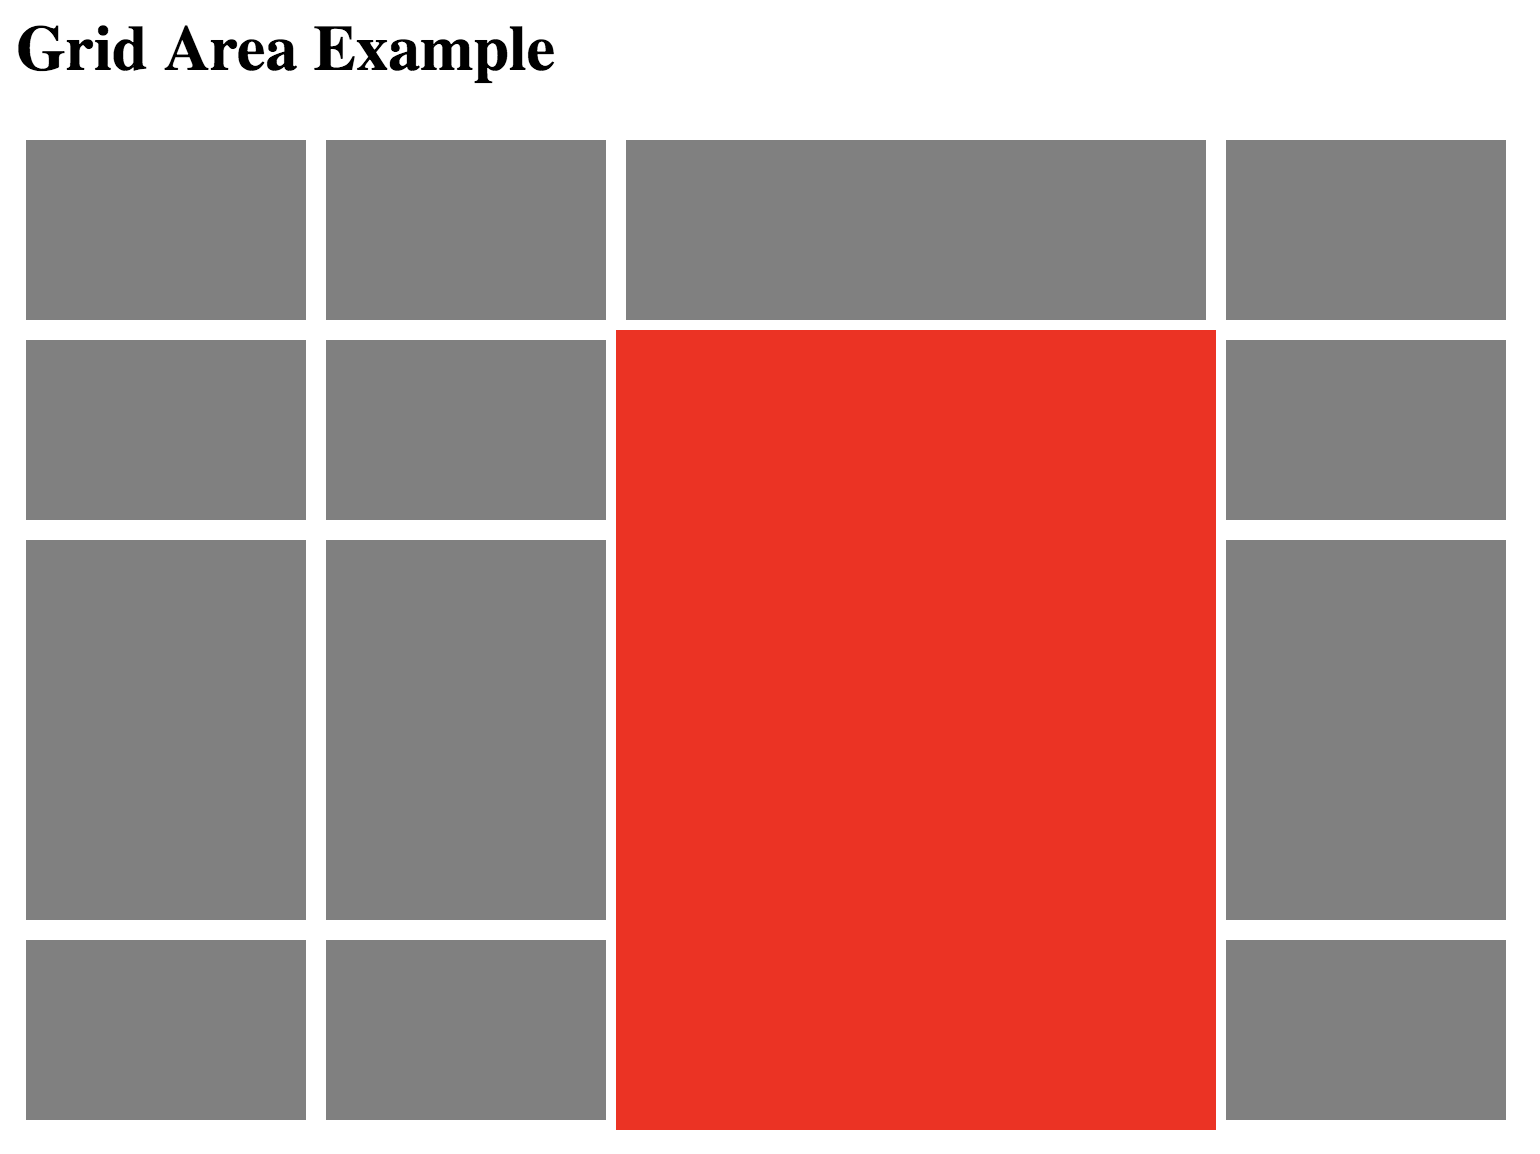
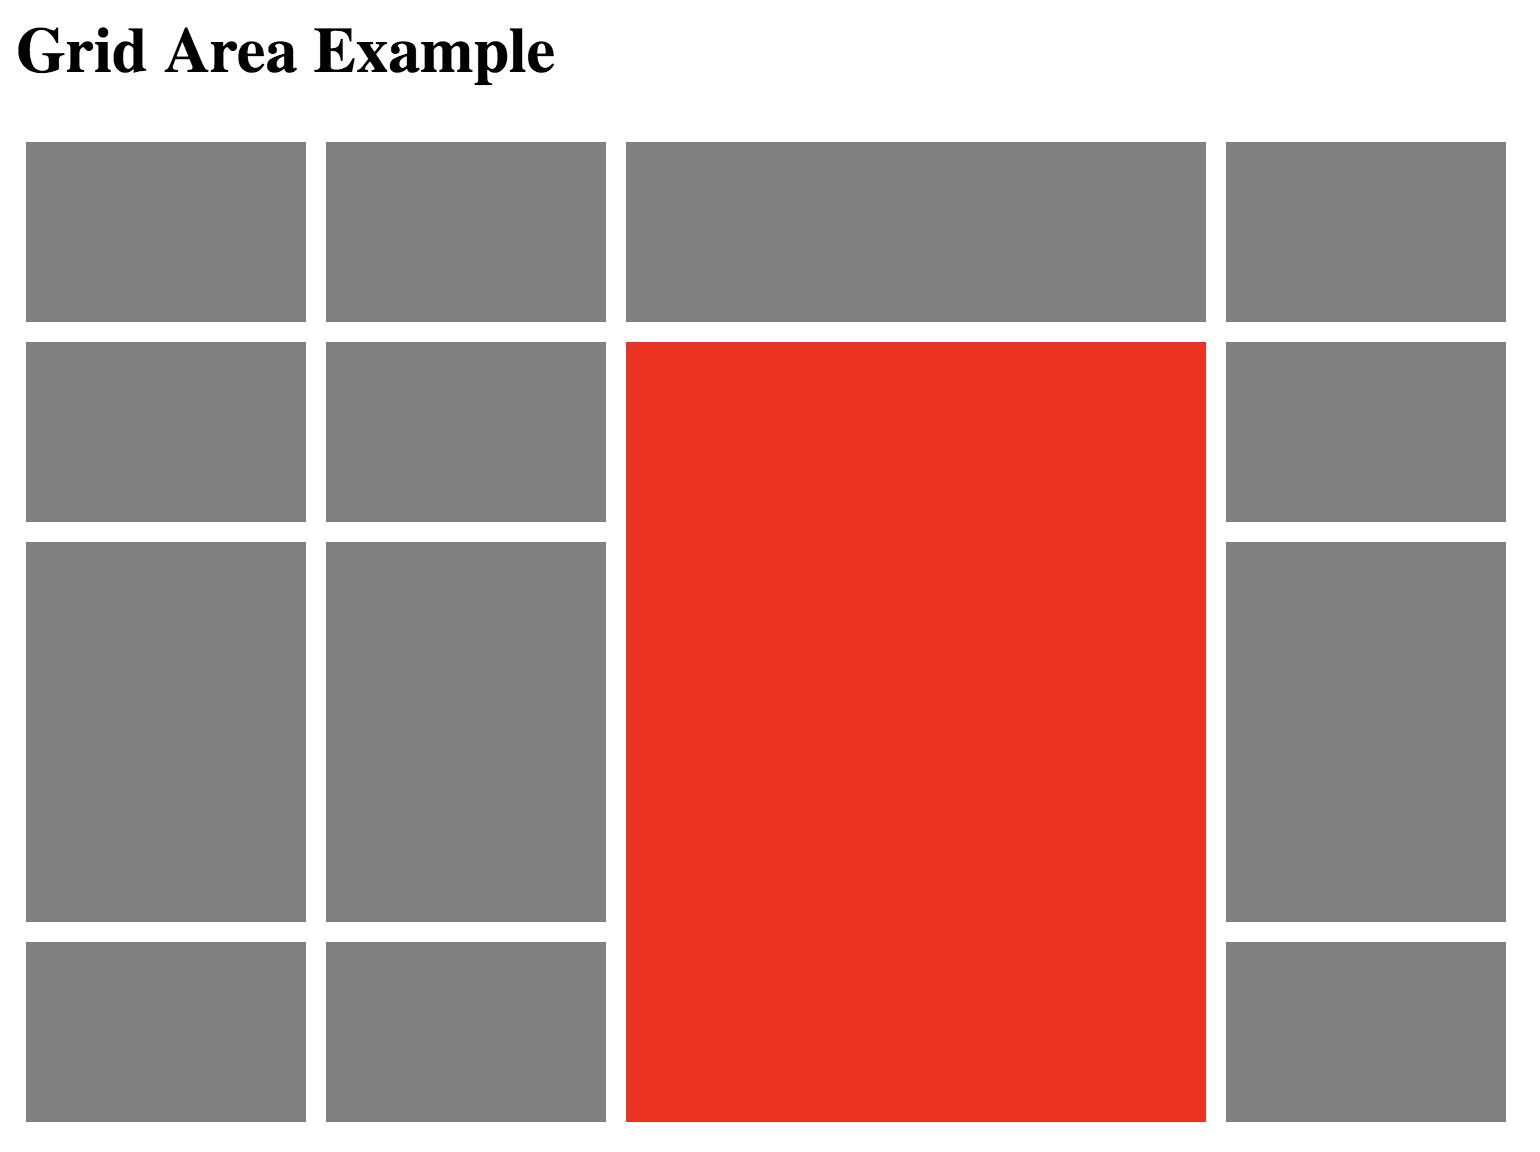
Corrections to grammar and images

diff --git a/index.html b/index.html
@@ -33,14 +33,6 @@
         </div>
         <div class="iteml1">
         </div>
-        <div class="itemm1">
-        </div>
-        <div class="itemn1">
-        </div>
-        <div class="itemo1">
-        </div>
-        <div class="itemp1">
-        </div>
       </div>
     </div>
     <h1> Grid Example 02 </h1>

diff --git a/styles.css b/styles.css
@@ -27,11 +27,13 @@
 .item01 {
   grid-area: 2 / 3 / 5 / 3;
   background-color: red;
+  margin: 5px;
 }
 
 .item02 {
   grid-area: 3 / 1 / 3 / 5;
   background-color: green;
+  margin: 5px;
 }
 
 .itema2 {
